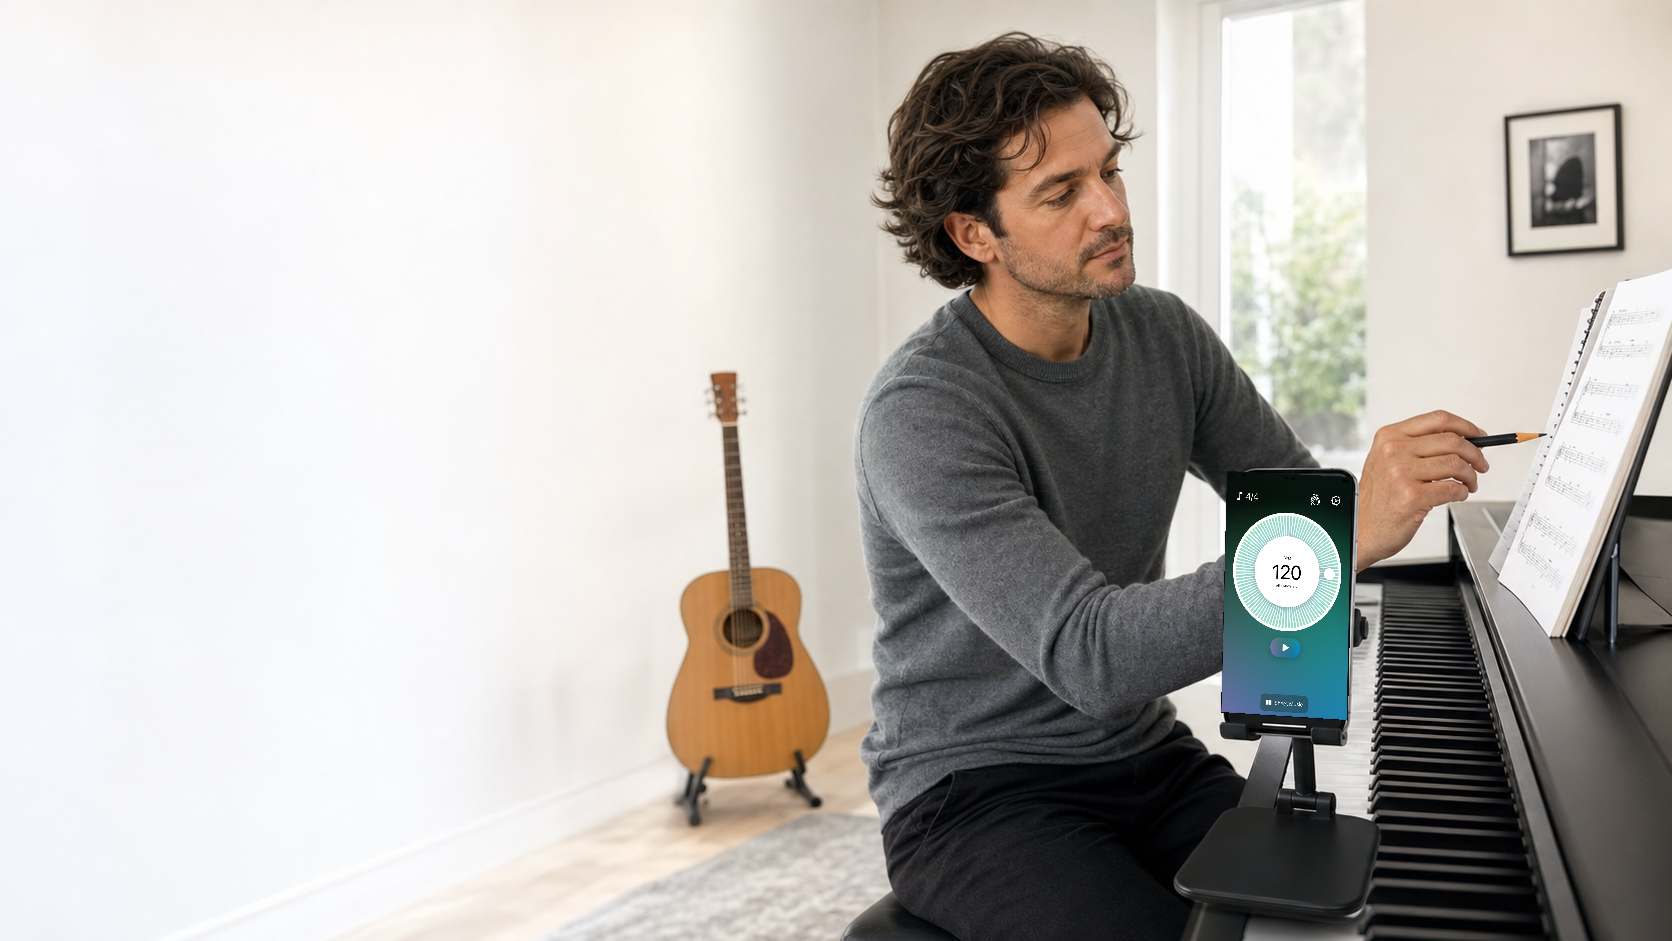
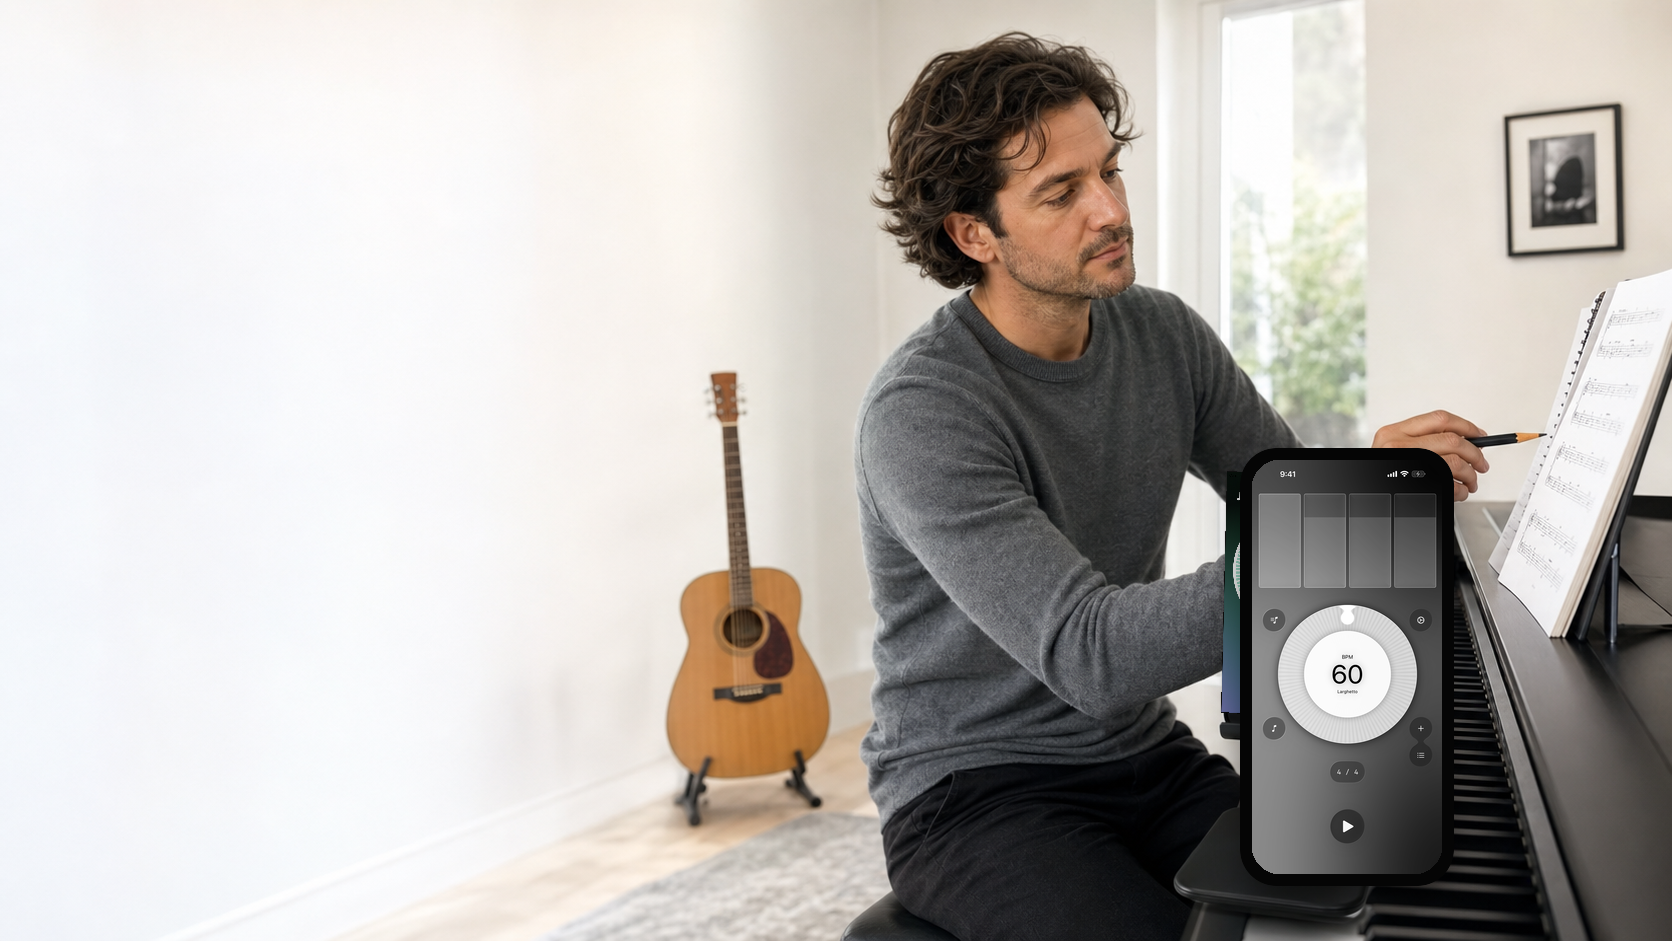
Refresh Metronome Pro 2.x website

Changed region(s): [[0.7153, 0.4623, 0.9019, 0.9554]]

diff --git a/index.html b/index.html
@@ -25,7 +25,6 @@
   <header class="site-header">
     <div class="container--lg">
       <nav class="navbar" aria-label="Main Navigation">
-        <a class="sr-only" href="#content">Skip to main content</a>
         <a class="navbar__title" href="/">Metronome</a>
         <button aria-label="Menu" class="navbar__menu-btn js-nav-toggle">
           <svg width="24" height="24" viewBox="0 0 24 24" xmlns="http://www.w3.org/2000/svg"><path d="M3 13h18c0.552 0 1-0.448 1-1s-0.448-1-1-1h-18c-0.552 0-1 0.448-1 1s0.448 1 1 1zM3 7h18c0.552 0 1-0.448 1-1s-0.448-1-1-1h-18c-0.552 0-1 0.448-1 1s0.448 1 1 1zM3 19h18c0.552 0 1-0.448 1-1s-0.448-1-1-1h-18c-0.552 0-1 0.448-1 1s0.448 1 1 1z"></path></svg>
@@ -103,19 +102,9 @@
           </ul>
           <a class="pill pill--primary" href="https://apps.apple.com/us/app/metronome26-practice-beats/id6758878910">Download free</a>
         </div>
-        <div class="phone-stack" aria-label="Metronome26 feature preview">
-          <div class="glass-phone">
-            <div class="meter">
-              <span>96</span>
-              <small>BPM</small>
-            </div>
-            <div class="beats"><i></i><i></i><i></i><i></i></div>
-            <p>Practice loop ready</p>
-          </div>
-          <div class="feature-panel">
-            <strong>Version 1.2.3</strong>
-            <span>Latest store notes mention sheet music library browsing, PDF/MIDI support, imported MIDI practice, and loop sync.</span>
-          </div>
+        <div class="screens screens--single" aria-label="Metronome26 real app screenshots">
+          <img src="assets/img/metronome26-library.png" alt="Metronome26 sheet music library screenshot">
+          <img src="assets/img/metronome26-follow.png" alt="Metronome26 follow-along practice screenshot">
         </div>
       </div>
     </section>
@@ -123,20 +112,50 @@
     <section id="pro" class="product product--pro">
       <div class="landing__inner product__layout product__layout--reverse">
         <div class="screens">
-          <img src="assets/img/metronome-pro-screen-1.png" alt="Metronome Pro sheet music screenshot">
-          <img src="assets/img/metronome-pro-screen-2.png" alt="Metronome Pro home screenshot">
+          <img src="assets/img/metronome-pro-screen-1.png" alt="Metronome Pro home screenshot">
+          <img src="assets/img/metronome-pro-screen-2.png" alt="Metronome Pro follow-along practice screenshot">
         </div>
         <div class="product__copy">
           <img class="app-icon" src="assets/img/metronome-pro-icon.jpg" alt="Metronome Pro app icon">
           <p class="section-kicker">Metronome - Metronome Pro</p>
-          <h2>The classic paid metronome.</h2>
-          <p>Metronome Pro is the established version for players who want a simple paid download, no ads, flexible beat settings, multiple sounds, color themes, and Apple Watch support.</p>
+          <h2>The paid classic, rebuilt for 2.x.</h2>
+          <p>Metronome Pro 2.x brings the modern practice core into the paid app: redesigned iPhone screens, sheet music and MIDI practice, SoundFont sounds, records, and a rebuilt Apple Watch companion.</p>
           <ul class="check-list">
-            <li>Paid download on the App Store.</li>
-            <li>Apple Watch, iPhone, iPad, and Mac compatibility listed online.</li>
-            <li>Current App Store rating: 4.24 from 33 ratings in the US store snapshot.</li>
+            <li>Upcoming 2.x screenshots and copy reflect the next release.</li>
+            <li>Paid download, no ads, with pro practice controls.</li>
+            <li>Apple Watch adds dedicated Metronome and Running modes.</li>
           </ul>
           <a class="pill pill--dark" href="https://apps.apple.com/us/app/metronome-metronome-pro/id1538268059">Buy Metronome Pro</a>
+        </div>
+      </div>
+    </section>
+
+    <section id="pro-watch" class="product product--watch">
+      <div class="landing__inner">
+        <div class="watch__header">
+          <div>
+            <p class="section-kicker">Metronome Pro Watch</p>
+            <h2>For wrists, workouts, and practice rooms.</h2>
+          </div>
+          <p>Pro Watch now has two focused modes: a musician-first metronome for practice and a running cadence mode for fitness users who buy Pro to keep their stride steady without staring at a phone.</p>
+        </div>
+        <div class="watch__layout">
+          <div class="watch__screens" aria-label="Metronome Pro Watch screenshots">
+            <img src="assets/img/watch-main.png" alt="Metronome Pro Watch metronome mode screenshot">
+            <img src="assets/img/watch-running.png" alt="Metronome Pro Watch running mode screenshot">
+            <img src="assets/img/watch-tempo.png" alt="Metronome Pro Watch running tempo screenshot">
+            <img src="assets/img/watch-settings.png" alt="Metronome Pro Watch settings screenshot">
+          </div>
+          <div class="watch__modes">
+            <article>
+              <span>Metronome Mode</span>
+              <p>Set BPM, keep a clear beat display on the wrist, and use sound or haptics when the phone is not in reach.</p>
+            </article>
+            <article>
+              <span>Running Mode</span>
+              <p>Dial in steps per minute for cadence training, then let the watch pace the workout with wrist-first feedback.</p>
+            </article>
+          </div>
         </div>
       </div>
     </section>
@@ -154,7 +173,7 @@
           <div role="row" class="compare__row">
             <span role="cell">Best for</span>
             <span role="cell">Modern practice, sheet music, MIDI, subscriptions</span>
-            <span role="cell">Paid classic metronome with Watch support</span>
+            <span role="cell">Paid 2.x practice app with Watch metronome and running modes</span>
           </div>
           <div role="row" class="compare__row">
             <span role="cell">Pricing model</span>
@@ -164,17 +183,17 @@
           <div role="row" class="compare__row">
             <span role="cell">Core metronome</span>
             <span role="cell">Precise BPM, time signatures, accents, records</span>
-            <span role="cell">Flexible BPM, 80 beat types, sound effects, themes</span>
+            <span role="cell">Modern BPM, time signatures, SoundFont sounds, records, Watch haptics</span>
           </div>
           <div role="row" class="compare__row">
             <span role="cell">Advanced practice</span>
             <span role="cell">Sheet music, PDF/MIDI resources, imported MIDI loops</span>
-            <span role="cell">Simple sheet music trial language remains in legacy listing</span>
+            <span role="cell">2.x sheet music, MIDI follow-along, and Watch running cadence</span>
           </div>
           <div role="row" class="compare__row">
             <span role="cell">Platform focus</span>
             <span role="cell">iOS 26 and newer devices</span>
-            <span role="cell">iOS 13+, iPad, Mac, Apple Watch</span>
+            <span role="cell">iPhone, iPad, Mac, and Apple Watch</span>
           </div>
         </div>
       </div>
@@ -192,7 +211,7 @@
         </article>
         <article>
           <h3>On-screen and on-wrist</h3>
-          <p>Keep time visible through Live Activity and Apple Watch paths, so practice does not disappear when you leave the app.</p>
+          <p>Keep time visible through Live Activity and Apple Watch paths, including Pro Watch running cadence for workout pacing.</p>
         </article>
       </div>
     </section>
@@ -212,7 +231,7 @@
           <a class="download-card" href="https://apps.apple.com/us/app/metronome-metronome-pro/id1538268059">
             <img src="assets/img/metronome-pro-icon.jpg" alt="">
             <span>Metronome Pro</span>
-            <small>Paid classic metronome</small>
+            <small>Paid 2.x app with Pro Watch running mode</small>
           </a>
         </div>
       </div>

diff --git a/assets/css/styles.css b/assets/css/styles.css
@@ -251,7 +251,7 @@ hr { background: var(--color-border); border: 0; height: 1px; margin: 2.25rem 0;
   grid-template-columns: repeat(3, 1fr);
   margin-top: 46px;
 }
-.intro__grid article, .features__grid article, .feature-panel, .download-card {
+.intro__grid article, .features__grid article, .download-card, .watch__modes article {
   background: var(--color-surface);
   border: 1px solid rgba(0,0,0,0.06);
   border-radius: 8px;
@@ -264,7 +264,7 @@ hr { background: var(--color-border); border: 0; height: 1px; margin: 2.25rem 0;
   font-weight: 800;
   margin-bottom: 10px;
 }
-.intro__grid p, .features__grid p, .product__copy p, .feature-panel span {
+.intro__grid p, .features__grid p, .product__copy p, .watch__header > p, .watch__modes p {
   color: #5f6368;
   line-height: 1.6;
   margin: 0;
@@ -316,58 +316,62 @@ hr { background: var(--color-border); border: 0; height: 1px; margin: 2.25rem 0;
   position: absolute;
 }
 
-/* Glass phone mockup */
-.phone-stack { align-items: center; display: grid; gap: 22px; justify-items: center; }
-.glass-phone {
-  aspect-ratio: 9 / 19.5;
-  background: linear-gradient(155deg, rgba(18,22,30,0.96), rgba(42,45,56,0.92));
-  border: 10px solid #111;
-  border-radius: 42px;
-  box-shadow: 0 44px 90px rgba(0,0,0,0.28);
-  box-sizing: border-box;
-  color: #fff;
-  display: grid;
-  justify-items: center;
-  max-width: 330px;
-  padding: 70px 26px 38px;
-  position: relative;
-  width: 100%;
-}
-.glass-phone::before {
-  background: #050505;
-  border-radius: 0 0 16px 16px;
-  content: "";
-  height: 28px;
-  left: 50%;
-  position: absolute;
-  top: 0;
-  transform: translateX(-50%);
-  width: 110px;
-}
-.meter {
-  align-items: center;
-  border: 2px solid rgba(255,255,255,0.18);
-  border-radius: 50%;
-  display: flex;
-  flex-direction: column;
-  height: 170px;
-  justify-content: center;
-  width: 170px;
-}
-.meter span { font-size: 4.6rem; font-weight: 800; line-height: 1; }
-.meter small { color: rgba(255,255,255,0.58); font-weight: 700; }
-.beats { display: flex; gap: 12px; margin-top: 42px; }
-.beats i { background: #ff9f0a; border-radius: 50%; display: block; height: 18px; width: 18px; }
-.beats i:not(:first-child) { background: rgba(255,255,255,0.28); }
-.glass-phone p { color: rgba(255,255,255,0.68); margin: 32px 0 0; }
-.feature-panel { max-width: 360px; }
-.feature-panel strong, .download-card span { display: block; font-size: 1.1rem; margin-bottom: 6px; }
+.download-card span, .watch__modes span { display: block; font-size: 1.1rem; font-weight: 800; margin-bottom: 6px; }
 
 /* Screenshots */
 .screens { align-items: center; display: flex; justify-content: center; min-height: 520px; position: relative; }
 .screens img { border-radius: 34px; box-shadow: 0 32px 70px rgba(0,0,0,0.22); max-width: 270px; width: 46%; }
 .screens img:first-child { transform: rotate(-4deg) translateX(16px); z-index: 2; }
 .screens img:last-child { transform: rotate(5deg) translateX(-16px) translateY(28px); }
+.screens--single { min-height: 560px; }
+.screens--single img { max-width: 300px; width: 48%; }
+.screens--single img:first-child { transform: rotate(-3deg) translateX(22px); }
+.screens--single img:last-child { transform: rotate(4deg) translateX(-22px) translateY(34px); }
+
+/* Pro Watch */
+.product--watch { background: #f7f8fa; }
+.watch__header {
+  align-items: end;
+  display: grid;
+  gap: 42px;
+  grid-template-columns: minmax(0, 1.1fr) minmax(320px, 0.9fr);
+  margin-bottom: 52px;
+}
+.watch__header h2 {
+  font-size: clamp(2.3rem, 5.5vw, 4.8rem);
+  letter-spacing: 0;
+  line-height: 1;
+}
+.watch__header > p { font-size: 1.08rem; }
+.watch__layout {
+  align-items: center;
+  display: grid;
+  gap: 58px;
+  grid-template-columns: minmax(0, 1.25fr) minmax(300px, 0.75fr);
+}
+.watch__screens {
+  align-items: center;
+  display: grid;
+  gap: 16px;
+  grid-template-columns: repeat(4, minmax(0, 1fr));
+}
+.watch__screens img {
+  background: #111;
+  border-radius: 28px;
+  box-shadow: 0 22px 52px rgba(0,0,0,0.18);
+  width: 100%;
+}
+.watch__modes {
+  display: grid;
+  gap: 16px;
+}
+.watch__modes article:first-child { background: #fff; }
+.watch__modes article:last-child {
+  background: #111;
+  border-color: #111;
+}
+.watch__modes article:last-child span { color: #fff; }
+.watch__modes article:last-child p { color: rgba(255,255,255,0.72); }
 
 /* Compare */
 .compare { padding: 96px 0; }
@@ -426,10 +430,12 @@ hr { background: var(--color-border); border: 0; height: 1px; margin: 2.25rem 0;
     background: linear-gradient(180deg, rgba(0,0,0,0.34) 0%, rgba(0,0,0,0.86) 72%);
   }
   .hero__content { justify-content: flex-end; min-height: 720px; padding-bottom: 72px; }
-  .intro__grid, .features__grid, .product__layout, .product__layout--reverse, .download__layout {
+  .intro__grid, .features__grid, .product__layout, .product__layout--reverse, .download__layout, .watch__header, .watch__layout {
     grid-template-columns: 1fr;
   }
   .product__layout--reverse .screens { order: 2; }
+  .watch__header { align-items: start; }
+  .watch__screens { grid-template-columns: repeat(2, minmax(0, 1fr)); margin: 0 auto; max-width: 560px; }
   .compare__row { grid-template-columns: 1fr; }
   .compare__row span:first-child { font-weight: 800; }
 }
@@ -440,4 +446,8 @@ hr { background: var(--color-border); border: 0; height: 1px; margin: 2.25rem 0;
   .product, .intro, .compare, .features, .download { padding: 64px 0; }
   .screens { min-height: 460px; }
   .screens img { max-width: 220px; width: 54%; }
+  .screens--single { min-height: 500px; }
+  .screens--single img { max-width: 230px; width: 58%; }
+  .watch__screens { gap: 10px; }
+  .watch__screens img { border-radius: 22px; }
 }
